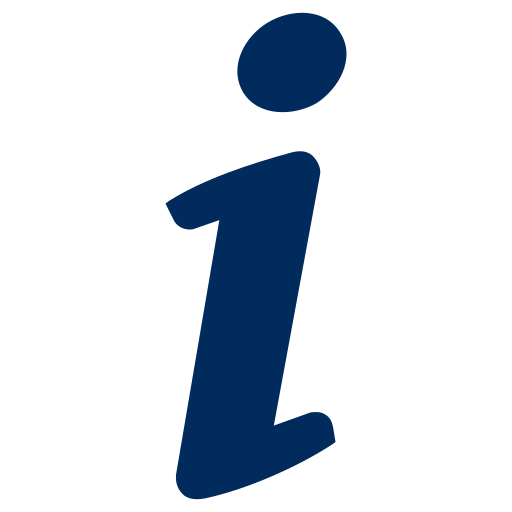
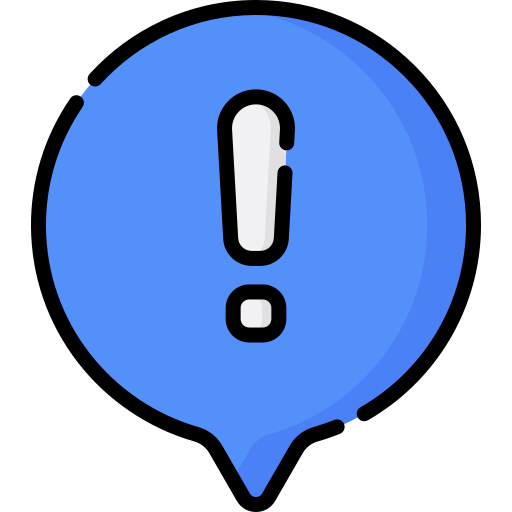
changes in featured_recipe page

diff --git a/app/recipe/[recipeName]/page.tsx b/app/recipe/[recipeName]/page.tsx
@@ -7,6 +7,7 @@ import ing from "@/public/Images/ingredients.png"
 import uten from "@/public/Images/utensils.png"
 import cook from "@/public/Images/cooking.png"
 import heart from "@/public/Images/heart.png"
+import info from "@/public/Images/info.png";
 import heart_filled from "@/public/Images/heart_filled.png";
 
 
@@ -70,12 +71,14 @@ const Recipe = () => {
             console.log("Response failed");
         }
 
-        console.log("Recipe counter updated successfully")
+        setRawHeart(false)
+        setFilledHeart(true)
+
+        // console.log("Recipe counter updated successfully")
     }
 
 
     const get_rating = async() => {
-        
         const res = await fetch(`/api/get_rating?Recipe_name=${name}` , {
             method : "GET"
         })
@@ -86,15 +89,12 @@ const Recipe = () => {
         }
 
         const data = await res.json()
-        setRating(data.result.Counter)
-        
+        setRating(data.result)
     }
 
 
     const Like = (value : string | null) => {
-
         handleLike(value);
-
     }
 
     const currentMeal = mealDetails[0]
@@ -150,28 +150,28 @@ const Recipe = () => {
             setFilledHeart(false)
         }
 
-    } , [rating])
+    } , [rating])   
 
 
 
     return (
 
     <div className="w-full flex justify-center flex-col items-center mt-20 mb-20">
-        <div className="w-[80%] bg-white p-10 flex rounded-xl">
+        <div className="xl:w-[80%] mm:w-[90%] bg-white xl:p-10 mm:p-2 flex xl:flex-row mm:flex-col rounded-xl">
             {/* Left Section */}
-            <div className="w-[40%] flex flex-col">
+            <div className="xl:w-[40%] mm:w-full flex flex-col">
                 <div className='w-full flex justify-between items-center'>
-                    <div className='w-[65%]'>
-                        <p className="text-5xl font-Capra">{name}</p>
+                    <div className='xl:w-[65%] mm:w-[75%]'>
+                        <p className="xl:text-5xl mm:text-2xl font-Capra">{name}</p>
                     </div>
 
                     {rawHeart && (
-                        <Image src={heart} alt='Raw heart' className='w-[4.5%] h-7 hover:cursor-pointer' onClick={() => { Like(name); }} />
+                        <Image src={heart} alt='Raw heart' className='xl:w-[4.5%] mm:w-[7%] hover:cursor-pointer' onClick={() => { Like(name); }} />
                     )}
 
                     {filledHeart && (
-                        <div className='w-[10%] flex justify-center items-center'>
-                            <Image src={heart_filled} alt='Filled Heart' className='w-[45%] h-7 hover:cursor-pointer' onClick={ ()=> { Like(name); }} onMouseEnter={showRating} onMouseLeave={disableRating}/>
+                        <div className='xl:w-[10%] mm:w-[7%] flex justify-center items-center'>
+                            <Image src={heart_filled} alt='Filled Heart' className='hover:cursor-pointer' onClick={ ()=> { Like(name); }} onMouseEnter={showRating} onMouseLeave={disableRating}/>
                             <p className='font-Poppins text-[20px] p-2 hidden bg-amber-50 rounded-4xl' ref={ratingDiv}>{rating}</p>
                         </div>
                     )}
@@ -180,34 +180,34 @@ const Recipe = () => {
 
                 <div className="w-[60%] mt-12 flex">
                     {mealDetails.map((md) => (
-                        <Image key={md.idMeal} src={md.strMealThumb} alt="Meal" width={300} height={300} loading='eager' />
+                        <Image key={md.idMeal} src={md.strMealThumb} alt="Meal" className='' height={170} width={170} loading='eager' />
                     ))}
                 </div>
             </div>
             
 
             {/* Divider */}
-            <div className="w-[5%] flex items-center ml-5 justify-center">
+            <div className="w-[5%] xl:flex mm:hidden items-center ml-5 justify-center">
                 <div className="h-90 bg-amber-500 p-0.5 rounded-full" />
             </div>
 
 
             {/* Ingredients Section */}
-            <div className="w-[50%] flex flex-col">
-                <div className="w-full flex ml-15 items-center">
-                    <p className="text-3xl font-Capra">Ingredients</p>
-                    <Image src={ing} alt="Ingredients" className="object-contain w-[5%] p-1 ml-3" />
+            <div className="xl:w-[50%] mm:w-[90%] flex flex-col xl:mt-0 mm:mt-15">
+                <div className="w-full flex flex-row xl:ml-15 mm:ml-0 items-center">
+                <Image src={ing} alt="Ingredients" className="object-contain xl:w-[5%] mm:w-[15%]  p-1 xl:ml-3 mmLpl-3" />
+                    <p className="xl:text-3xl mm:text-2xl xl:ml-0 mm:ml-2 font-Capra">Ingredients</p>
                 </div>
 
-                <div className="w-full flex mt-10 ml-15 flex-col">
+                <div className="w-full flex xl:mt-10 mm:mt-6 xl:ml-15 mm:ml-2 flex-col">
                     {ingredients.map((item, index) => (
                     <div key={index} className="flex items-center mb-3">
-                        <div className="w-[3%]">
+                        <div className="xl:w-[3%] mm:w-[8%]">
                             <Image src={uten} alt="steps" />
                         </div>
 
                         <div className="w-full ml-5 bg-amber-50 p-2 rounded-lg">
-                            <p className="font-medium text-lg text-gray-700 flex justify-between">
+                            <p className="font-medium xl:text-[16px] mm:text-[14px] text-gray-700 flex justify-between">
                                 {item.ingredient}
                                 {item.measure && (
                                 <span className="text-gray-500 ml-2">{item.measure}</span>
@@ -221,16 +221,16 @@ const Recipe = () => {
         </div>
 
       {/* Preparation Section */}
-        <div className="w-[80%] bg-white flex flex-col mt-10 rounded-xl">
-            <div className="w-full flex ml-5 mt-5 mb-4 items-center">
-                <p className="font-Capra text-4xl">Preparation</p>
-                <Image src={cook} alt="Prepare" className="object-contain w-[3%] ml-3 p-0.5" />
+        <div className="xl:w-[80%] mm:w-[90%] bg-white flex flex-col mt-10 rounded-xl">
+            <div className="w-full flex xl:ml-5 mm:ml-1 mt-5 mb-4 items-center">
+                <Image src={cook} alt="Prepare" className="object-contain xl:w-[3%] mm:w-[14%] xl:ml-3 mm:ml-0 p-0.5" />
+                <p className="font-Capra xl:text-4xl mm:text-2xl xl:ml-0 mm:ml-2">Preparation</p>
             </div>
 
             <div className="w-full flex justify-center">
                 <div className='w-[97%] mt-2 mb-5'> 
                     {mealDetails.map((meal) => (  
-                    <p key={meal.idMeal} className="font-Poppins p-2 pl-0">
+                    <p key={meal.idMeal} className="font-Poppins p-2 pl-0 xl:text-[16px] mm:text-[14px]">
                         {meal.strInstructions
                         .split(/(?<=\.)\s+(?=[A-Z])/)
                         .map((sentence, index) => (
@@ -246,37 +246,31 @@ const Recipe = () => {
         </div>
 
 
-        <div className='w-[80%] bg-white mt-10 rounded-xl'>
-            <div className='w-full p-2 mt-4'>
-                <p className='font-Capra text-4xl ml-2'>Other Details</p>
+        <div className='xl:w-[80%] mm:w-[90%] bg-white mt-10 rounded-xl'>
+            <div className='w-full p-2 mt-4 flex'>
+                <Image src={info} alt="other details" className="object-contain xl:w-[3%] mm:w-[11%] xl:ml-3 mm:ml-0 p-0.5" />
+                <p className='font-Capra xl:text-4xl mm:text-2xl ml-2'>Other Details</p>
             </div>
 
-            <div className='w-full p-2 mt-10 pl-4 flex'>
-                <p className='font-Mogra text-2xl'>Category     -</p>
+            <div className='w-full p-2 xl:mt-10 mm:mt-4 pl-4 flex'>
+                <p className='font-Mogra xl:text-2xl mm:text-[17px]'>Category -</p>
                 {mealDetails.map((meal) => (
-                    <p key={meal.idMeal} className='font-Poppins text-[20px] ml-5'>{meal.strCategory}</p>
+                    <p key={meal.idMeal} className='font-Poppins xl:text-[20px] mm:text-[15px] ml-5'>{meal.strCategory}</p>
                 ))}
             </div>
 
-            <div className='w-full p-2 mt-5 pl-4 flex'>
-                <p className='font-Mogra text-2xl'>Area     -</p>
+            <div className='w-full p-2 xl:mt-5 mm:mt-2 pl-4 flex'>
+                <p className='font-Mogra xl:text-2xl mm:text-[17px]'>Area -</p>
                 {mealDetails.map((meal) => (
-                    <p key={meal.idMeal} className='font-Poppins text-[20px] ml-5'>{meal.strArea}</p>
+                    <p key={meal.idMeal} className='font-Poppins xl:text-[20px] mm:text-[15px] ml-5'>{meal.strArea}</p>
                 ))}
             </div>
 
-            <div className='w-full p-2 mt-5 pl-4 flex'>
-                <p className='font-Mogra text-2xl'>Area     -</p>
+            <div className='w-full p-2 xl:mt-5 mm:mt-2 flex pl-4 mb-5'>
                 {mealDetails.map((meal) => (
-                    <p key={meal.idMeal} className='font-Poppins text-[20px] ml-5'>{meal.strArea}</p>
-                ))}
-            </div>
-
-            <div className='w-full p-2 mt-5 flex pl-4 mb-5'>
-                {mealDetails.map((meal) => (
-                    <div className='w-full flex' key={meal.idMeal}>  
-                        <p className='font-Mogra text-2xl'>YT Link -</p>
-                        <p key={meal.idMeal} className='font-Poppins text-[20px] ml-5 text-blue-500 hover:cursor-pointer'  onClick={() => {handleClickToLink(meal.strYoutube); }}>{meal.strYoutube || `NA` }</p>
+                    <div className='w-full flex xl:flex-row mm:flex-col' key={meal.idMeal}>  
+                        <p className='font-Mogra xl:text-2xl mm:text-[17px]'>YT Link :</p>
+                        <p key={meal.idMeal} className='font-Poppins xl:text-[20px] mm:text-[15px] xl:ml-5 mm:ml-0 text-blue-500 hover:cursor-pointer'  onClick={() => {handleClickToLink(meal.strYoutube); }}>{meal.strYoutube || `NA` }</p>
                     </div>
                 ))}
             </div>

diff --git a/app/api/get_rating/route.tsx b/app/api/get_rating/route.tsx
@@ -1,5 +1,6 @@
 import Connect from "@/middleware/mongo_connect";
 import sch from "@/Schema/likedRecipe";
+import { message } from "antd";
 
 
 export const GET = async(req : Request) => {
@@ -17,11 +18,20 @@ export const GET = async(req : Request) => {
             })
         }
 
-        const check = await sch.findOne({"Recipe_name" : Recipe_name}).select("Counter");
+        const check = await sch.findOne({"Recipe_name" : Recipe_name}).select("-_id -Recipe_name -__v");
+
+        console.log(`DB response : ${check}`);
+
+        if(!check) {
+            return new Response(JSON.stringify({result : 0 , message : "No such recipe found"}) , {
+                status : 200
+            })
+        }
 
         return new Response(JSON.stringify({result : check , message : "Fetched rating successfully"}) , {
             status : 200
         })
+
 
     }
 

diff --git a/app/blog_recipe/[blog_recipes]/page.tsx b/app/blog_recipe/[blog_recipes]/page.tsx
@@ -72,7 +72,7 @@ const blog_recipes = () => {
                     <div className="w-full flex xl:flex-row mm:flex-col xl:justify-evenly mm:items-center xl:items-start mt-20">
                         <div className="xl:w-[40%] mm:w-[90%] flex flex-col justify-center">
                             <div className="xl:w-full flex xl:ml-0 mm:ml-1 items-center mm:mb-3 xl:mb-0">
-                                <Image src={ing} alt="ing" className="mm:h-10 mm:w-12 xl:w-12 xl:h-12" />    
+                                <Image src={ing} alt="ing" className="mm:h-10 mm:w-11 xl:w-12 xl:h-12" />    
                                 <p className="font-Mogra text-3xl xl:ml-5 mm:ml-3">Ingredients</p>
                             </div>
 
@@ -80,7 +80,7 @@ const blog_recipes = () => {
                                 <div key={index} className="xl:mt-5 mm:mt-2">
                                     {md.Ingredient.map((ingredient, idx) => (
                                         <div className="w-full flex nth-last-[1]:mb-5 xl:mt-4 mm:mt-3">
-                                            <Image src={ut} alt="Ing Icon" className="xl:p-1 mm:p-2 mm:h-10 mm:w-9 xl:h-9 xl:w-10"/>
+                                            <Image src={ut} alt="Ing Icon" className="xl:p-1 mm:p-2 mm:h-10 mm:w-10 xl:h-9 xl:w-10"/>
                                             <p key={idx} className="font-Poppins p-2 xl:ml-3 mm:ml-0 xl:text-[20px] mm:text-[16px] bg-[#fffbeb] w-[90%] rounded-2xl">{ingredient}</p>
                                         </div>
                                     ))}